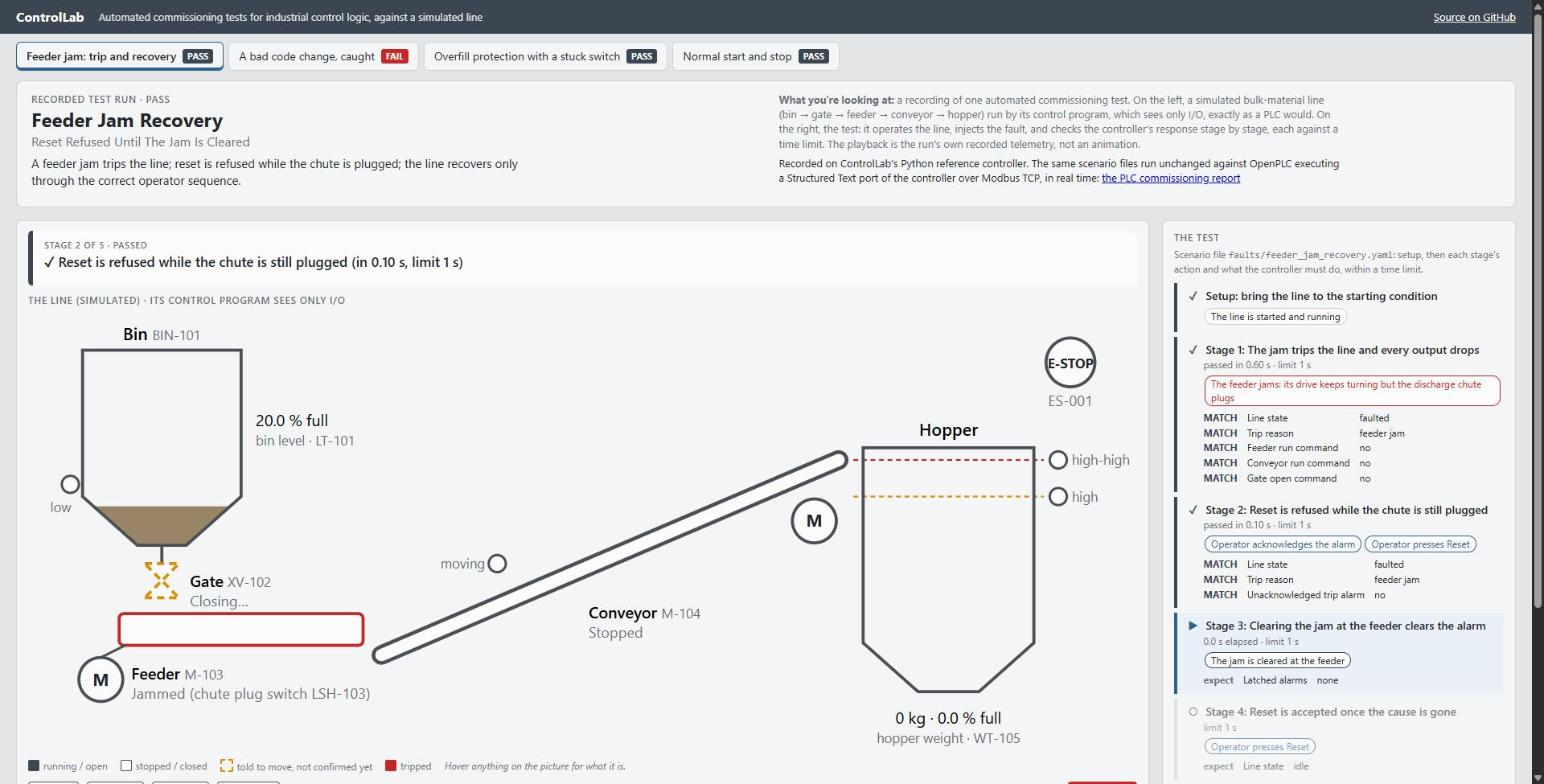
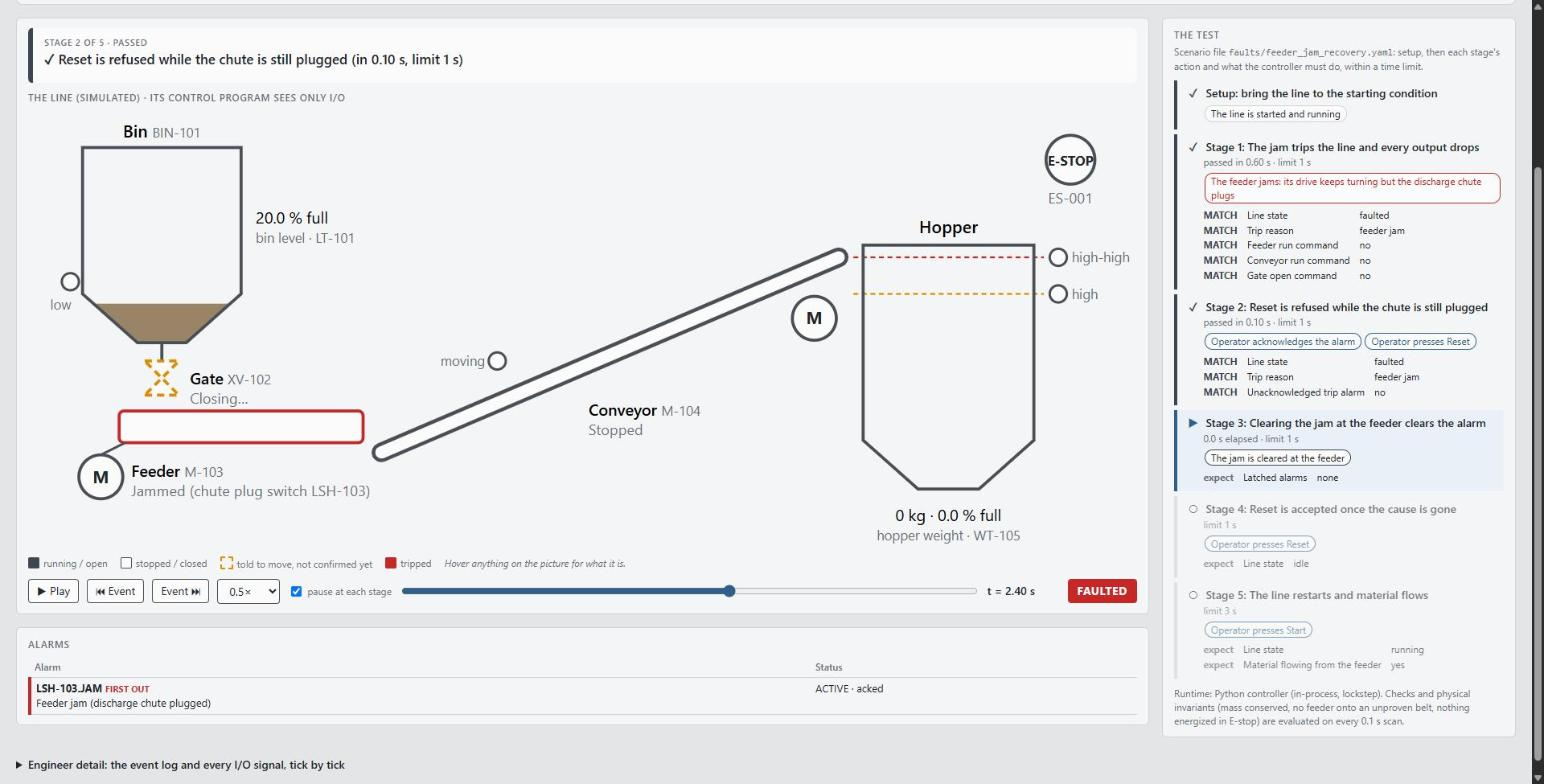
README hero: the line, the alarm and the test at readable size

diff --git a/README.md b/README.md
@@ -5,7 +5,7 @@ simulated plant before the logic ever reaches real equipment.**
 
 ### ▶ [Watch a test run in your browser](https://taborbachelor.github.io/controllab/): recorded runs, nothing to install
 
-[![A feeder-jam commissioning test mid-run: the simulated line on the left is tripped with the feeder jammed; the test on the right shows stage 1 (trip within 1 s) and stage 2 (reset refused while the chute is plugged) passed](docs/images/demo-feeder-jam.jpg)](https://taborbachelor.github.io/controllab/)
+[![A feeder-jam commissioning test mid-run: the simulated line on the left is tripped with the feeder jammed; the first-out alarm is the chute plug switch; the test on the right shows stage 1 (trip within 1 s) and stage 2 (reset refused while the chute is plugged) passed](docs/images/demo-feeder-jam.jpg)](https://taborbachelor.github.io/controllab/)
 
 **What you're looking at.** On the left is a small bulk-material handling
 line: bin → slide gate → screw feeder → inclined conveyor → weighed hopper.
